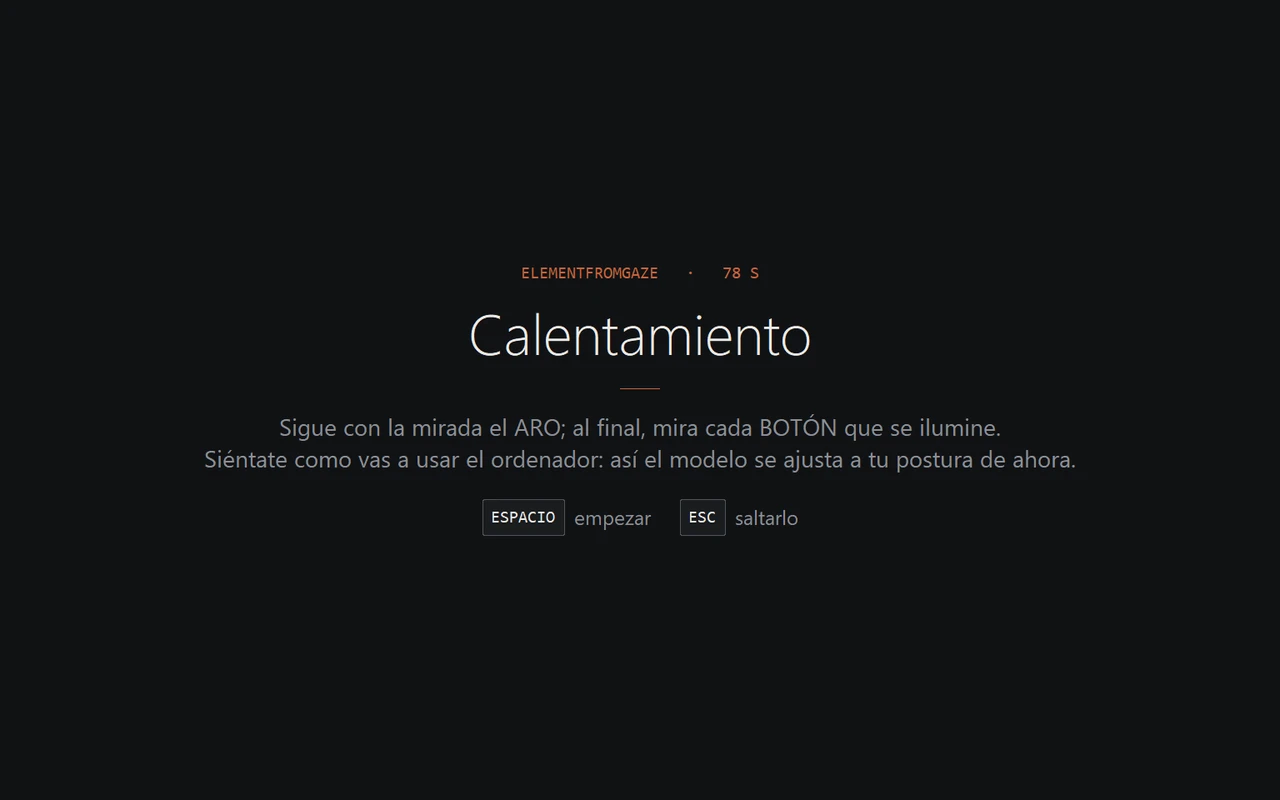
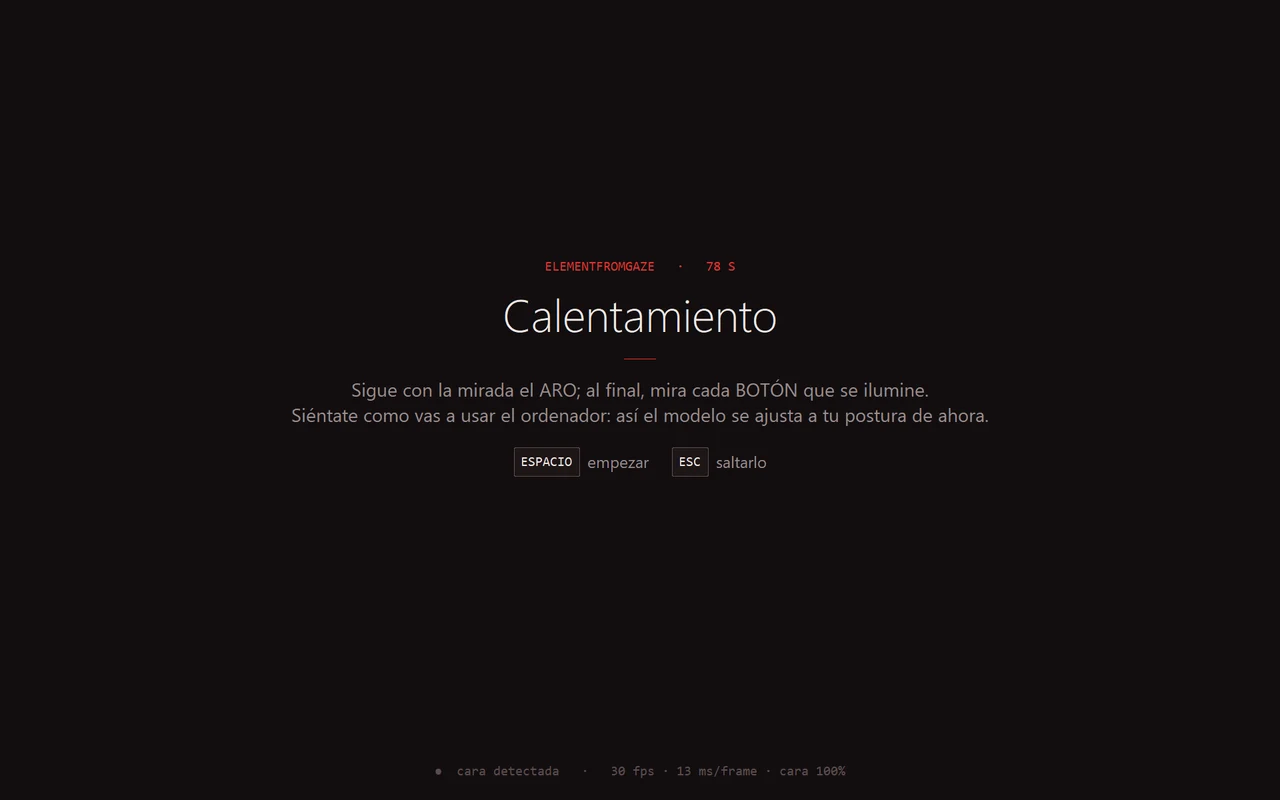
Red look: infrared red replaces copper in every screen, page, figure and the README
One red accent (#E5322D) on a near-black ground with a red undertone, in the
warm-up, tests, overlay, launcher, /demo, /read and efg.js. Problems are now
rose so they never look like the red target. Screenshots and SVG figures
regenerated; README gets the new cover and red badges.

diff --git a/src/elementfromgaze/web/demo.html b/src/elementfromgaze/web/demo.html
@@ -10,7 +10,7 @@
     --bg: #0b0b0c; --card: #111113; --card-hi: #18181b; --panel: #0f0f11;
     --line: #1e1e21; --line-2: #2a2a2e; --line-hi: #4a4843;
     --ink: #e8e4dc; --ink-2: #b4b0a8; --dim: #75726c; --faint: #4d4b47;
-    --acc: #c8643b; --acc-ink: #efc4ae; --acc-soft: rgba(200, 100, 59, .12);
+    --acc: #e5322d; --acc-ink: #f7c0b9; --acc-soft: rgba(229, 50, 45, .12);
     --sans: "Inter", "Segoe UI Variable Text", "Segoe UI", system-ui, sans-serif;
     --serif: "Source Serif 4", Georgia, "Times New Roman", serif;
     --mono: "JetBrains Mono", "Cascadia Mono", Consolas, ui-monospace, monospace;
@@ -32,7 +32,7 @@
   .ctl input { accent-color: var(--acc); width: 14px; height: 14px; margin: 0; }
   kbd { font: 11px/1 var(--mono); color: var(--ink-2); border: 1px solid var(--line-2); border-bottom-width: 2px; border-radius: 4px; padding: 3px 5px; margin-right: 6px; }
   #go { height: 34px; padding: 0 16px; font: 500 13px/1 var(--sans); color: var(--ink); background: transparent;
-    border: 1px solid rgba(200, 100, 59, .55); border-radius: 5px; cursor: pointer; transition: background .15s, border-color .15s; }
+    border: 1px solid rgba(229, 50, 45, .55); border-radius: 5px; cursor: pointer; transition: background .15s, border-color .15s; }
   #go:hover { background: var(--acc-soft); border-color: var(--acc); }
 
   /* one line on what to do, and the live status */
@@ -77,7 +77,7 @@
   svg path { cursor: pointer; fill: var(--card); stroke: var(--bg); stroke-width: 4; transition: fill .18s; }
   svg path:hover { fill: #151517; }
   svg path[data-gazed] { fill: #1d1d20; }
-  svg path.lit { fill: rgba(200, 100, 59, .22); }
+  svg path.lit { fill: rgba(229, 50, 45, .22); }
   svg text { pointer-events: none; text-anchor: middle; }
   svg text.n { fill: var(--ink-2); font: 500 12.5px var(--sans); }
   svg text.v { fill: var(--faint); font: 9.5px var(--mono); }
@@ -98,7 +98,7 @@
 
   /* efg's own pointer, in this page's colours (the lens that morphs onto what you look at) */
   html > div[data-efg][style*="box-shadow"] { border: 1.5px solid rgba(232, 228, 220, .85) !important; background: rgba(232, 228, 220, .05) !important; box-shadow: none !important; }
-  html > div[data-efg][style*="border-bottom"] { border-bottom: 2px solid rgba(200, 100, 59, .85) !important; background: rgba(200, 100, 59, .07) !important; }
+  html > div[data-efg][style*="border-bottom"] { border-bottom: 2px solid rgba(229, 50, 45, .85) !important; background: rgba(229, 50, 45, .07) !important; }
 
   @media (max-width: 1100px) { main { grid-template-columns: minmax(0, 1.4fr) minmax(0, 1fr); row-gap: 32px; } aside { grid-column: 1 / -1; } }
   @media (max-width: 760px) { main { grid-template-columns: 1fr; } .ctl { gap: 14px; } .ctl .hint { display: none; } #st { display: none; } }
@@ -216,7 +216,7 @@
   const targets = () => [...document.querySelectorAll("main button, svg path")];
   document.getElementById("go").onclick = async () => {
     const T = targets(), res = document.getElementById("res"), rows = [];
-    res.textContent = "mira cada objetivo naranja…";
+    res.textContent = "mira cada objetivo rojo…";
     await new Promise((r) => setTimeout(r, 1200));
     for (let i = 0; i < 20; i++) {
       let t; do { t = T[Math.floor(Math.random() * T.length)]; } while (rows.length && rows[rows.length - 1].t === t);

diff --git a/src/elementfromgaze/web/read.html b/src/elementfromgaze/web/read.html
@@ -9,8 +9,8 @@
   :root {
     --bg: #0b0b0c; --panel: #0f0f11; --line: #1e1e21; --line-2: #2a2a2e; --line-hi: #4a4843;
     --ink: #e8e4dc; --ink-2: #b4b0a8; --dim: #75726c; --faint: #4d4b47;
-    --acc: #c8643b; --acc-soft: rgba(200, 100, 59, .1);
-    --ok: #9ab894; --bad: #d9826d;
+    --acc: #e5322d; --acc-soft: rgba(229, 50, 45, .1);
+    --ok: #9ab894; --bad: #f0508c;
     --sans: "Inter", "Segoe UI Variable Text", "Segoe UI", system-ui, sans-serif;
     --mono: "JetBrains Mono", "Cascadia Mono", Consolas, ui-monospace, monospace;
   }
@@ -41,7 +41,7 @@
   button { font: 500 13.5px/1 var(--sans); color: var(--ink); background: transparent; border: 1px solid var(--line-2); border-radius: 5px;
     padding: 0 18px; height: 34px; cursor: pointer; transition: background .15s, border-color .15s, opacity .15s; }
   button:hover:not(:disabled) { border-color: var(--line-hi); background: rgba(232, 228, 220, .04); }
-  button.go, #done:not(:disabled) { border-color: rgba(200, 100, 59, .6); }
+  button.go, #done:not(:disabled) { border-color: rgba(229, 50, 45, .6); }
   button.go:hover:not(:disabled), #done:hover:not(:disabled) { border-color: var(--acc); background: var(--acc-soft); }
   button:disabled { opacity: .4; cursor: default; }
   label.st { display: inline-flex; align-items: center; gap: 8px; cursor: pointer; font: 12.5px/1.4 var(--sans); color: var(--dim); white-space: normal; }
@@ -59,7 +59,7 @@
   .ok { color: var(--ok); } .bad { color: var(--bad); }
 
   /* efg's own pointer, in this page's colours: the line being read gets a thin oxide underline */
-  html > div[data-efg][style*="border-bottom"] { border-bottom: 2px solid rgba(200, 100, 59, .85) !important; background: rgba(200, 100, 59, .07) !important; }
+  html > div[data-efg][style*="border-bottom"] { border-bottom: 2px solid rgba(229, 50, 45, .85) !important; background: rgba(229, 50, 45, .07) !important; }
   html > div[data-efg][style*="box-shadow"] { border: 1.5px solid rgba(232, 228, 220, .8) !important; background: rgba(232, 228, 220, .05) !important; box-shadow: none !important; }
 
   @media (max-width: 900px) { main { grid-template-columns: 1fr; } aside { position: static; } }

diff --git a/src/elementfromgaze/web/efg.js b/src/elementfromgaze/web/efg.js
@@ -1004,9 +1004,9 @@
   function ensureEls() {
     if (lens) return;
     const mk = (css) => { const d = document.createElement("div"); d.setAttribute("data-efg", ""); d.style.cssText = "position:fixed;pointer-events:none;z-index:2147483647;display:none;" + css; document.documentElement.appendChild(d); return d; };
-    lineBar = mk("box-sizing:border-box;border-bottom:2px solid rgba(200,100,59,.8);background:rgba(200,100,59,.06);border-radius:3px;");
+    lineBar = mk("box-sizing:border-box;border-bottom:2px solid rgba(229,50,45,.8);background:rgba(229,50,45,.06);border-radius:3px;");
     lens = mk("box-sizing:border-box;border:2px solid rgba(236,234,230,.85);background:rgba(236,234,230,.06);box-shadow:0 0 14px rgba(0,0,0,.35);");
-    dot = mk("width:8px;height:8px;margin:-4px 0 0 -4px;border-radius:50%;background:#c8643b;opacity:.85;");
+    dot = mk("width:8px;height:8px;margin:-4px 0 0 -4px;border-radius:50%;background:#e5322d;opacity:.85;");
     tag = mk("left:8px;bottom:8px;font:12px/1.3 Consolas,monospace;color:#fff;background:#000a;padding:4px 8px;border-radius:4px;");
   }
   const sLens = {}, sDot = {}, sLine = {};

diff --git a/src/elementfromgaze/look.py b/src/elementfromgaze/look.py
@@ -1,6 +1,6 @@
 """One look for every screen the tracker draws: calibration, warm-up, tests, the overlay, toasts.
 
-Near-black ground, quiet greys, one copper accent (the thing to look at). Head-movement phases
+Near-black ground with a red undertone, quiet greys, one red accent (the infrared look) (the thing to look at). Head-movement phases
 use a steel blue so "move your head" never looks like "look here". Fonts ship with Windows.
 """
 
@@ -9,19 +9,19 @@ from __future__ import annotations
 import re
 import tkinter as tk
 
-GROUND = "#111214"      # intro and message screens
-PANEL = "#1A1C1F"
-INK = "#ECEAE6"
-DIM = "#8C9097"
-FAINT = "#50545B"
-RULE = "#2A2D31"
-ACCENT = "#C8643B"      # copper: where to look, progress, the click ring
-ACCENT_HI = "#E58A5C"
+GROUND = "#120E0F"      # intro and message screens
+PANEL = "#1E1617"
+INK = "#F0E8E6"
+DIM = "#9A8D8E"
+FAINT = "#5C4C4E"
+RULE = "#302426"
+ACCENT = "#E5322D"      # red: where to look, progress, the click ring
+ACCENT_HI = "#FF6150"
 STEEL = "#6FA8C9"       # head-movement phases
 GOOD = "#5DBB73"
 WARN = "#D9A441"
-BAD = "#E5534B"
-GAZE = "#E8E4DC"        # the estimated-gaze dot: neutral, so it never competes with the target
+BAD = "#F0508C"       # rose, so a problem never looks like the red target
+GAZE = "#F2E6E2"        # the estimated-gaze dot: neutral, so it never competes with the target
 
 SANS = "Segoe UI"
 SANS_LIGHT = "Segoe UI Light"
@@ -107,7 +107,7 @@ def status_text(face: bool, perf: str, extra: str = "") -> str:
 
 
 def target(c: tk.Canvas, x, y, *, settle: float | None = None, light_bg=False, head=False, tags="target") -> None:
-    """The point to look at: a copper disc with a pinhole (a precise place for the eye to land),
+    """The point to look at: a red disc with a pinhole (a precise place for the eye to land),
     and while settling a ring that closes onto it. Head phases: a steel double ring."""
     if head:
         c.create_oval(x - 26, y - 26, x + 26, y + 26, outline=STEEL, width=2, tags=tags)
@@ -137,12 +137,12 @@ def message(c: tk.Canvas, W: int, H: int, text: str, kicker: str = "", tags="tar
 def progress(c: tk.Canvas, W: int, frac: float, light_bg=False, tags="progress") -> None:
     """A hairline across the top edge: how much of the stage is done (peripheral, never a target)."""
     c.delete(tags)
-    c.create_line(0, 1, W, 1, fill="#C9C6C0" if light_bg else RULE, width=2, tags=tags)
+    c.create_line(0, 1, W, 1, fill="#D2C6C4" if light_bg else RULE, width=2, tags=tags)
     c.create_line(0, 1, W * max(0.0, min(1.0, frac)), 1, fill=ACCENT, width=2, tags=tags)
 
 
 def warning(c: tk.Canvas, W: int, H: int, text: str, tags="quality") -> None:
-    """Can't see the eyes: a thin red frame and one line, so it is noticed at once."""
+    """Can't see the eyes: a thin rose frame and one line, so it is noticed at once."""
     c.create_rectangle(3, 3, W - 3, H - 3, outline=BAD, width=4, tags=tags)
     t = c.create_text(W / 2, 40, text=text, fill="#FFFFFF", font=(SANS_SEMI, 12), tags=tags)
     x0, y0, x1, y1 = c.bbox(t) or (W / 2 - 80, 30, W / 2 + 80, 50)
@@ -172,4 +172,4 @@ def button(c: tk.Canvas, x, y, w, h, label: str, lit=True, tags="target") -> Non
     """A UI-like button to look at (the warm-up's final check, the button test)."""
     round_rect(c, x - w / 2, y - h / 2, x + w / 2, y + h / 2, r=min(10, h / 4),
                fill=ACCENT if lit else PANEL, outline=ACCENT_HI if lit else RULE, width=1, tags=tags)
-    c.create_text(x, y, text=label, fill="#1A1210" if lit else DIM, font=(SANS_SEMI, -max(11, int(h * 0.36))), tags=tags)   # negative = pixels, immune to DPI scaling
+    c.create_text(x, y, text=label, fill="#1A0D0C" if lit else DIM, font=(SANS_SEMI, -max(11, int(h * 0.36))), tags=tags)   # negative = pixels, immune to DPI scaling

diff --git a/docs/make_figures.py b/docs/make_figures.py
@@ -6,8 +6,8 @@ from __future__ import annotations
 from pathlib import Path
 
 OUT = Path(__file__).parent / "assets"
-BG, PANEL, RULE, INK, DIM, FAINT = "#111214", "#1A1C1F", "#2A2D31", "#ECEAE6", "#8C9097", "#50545B"
-ACCENT, STEEL, GREEN, VIOLET, GOLD = "#C8643B", "#6FA8C9", "#5DBB73", "#9B8AE0", "#D9A441"
+BG, PANEL, RULE, INK, DIM, FAINT = "#120E0F", "#1E1617", "#302426", "#F0E8E6", "#9A8D8E", "#5C4C4E"
+ACCENT, STEEL, GREEN, VIOLET, GOLD = "#E5322D", "#6FA8C9", "#5DBB73", "#9B8AE0", "#D9A441"
 FONT = "ui-monospace, SFMono-Regular, Consolas, Menlo, monospace"
 SANS = "-apple-system, 'Segoe UI', Inter, Helvetica, Arial, sans-serif"
 
@@ -58,7 +58,7 @@ def pipeline():
     b.append(arrow(843, 156, 843, 214))
     b.append(arrow(754, 267, 714, 267))
     b.append(arrow(518, 267, 478, 267))
-    b.append(box(28, 214, 200, 106, "you", ["pointer on the button", "long blink: click", "efg.js events in pages"], color=ACCENT, fill="#1E1714"))
+    b.append(box(28, 214, 200, 106, "you", ["pointer on the button", "long blink: click", "efg.js events in pages"], color=ACCENT, fill="#2A1314"))
     b.append(arrow(268, 267, 228, 267))
     # row 3: learning
     b.append(box(268, 378, 446, 110, "learning on the ride", [
@@ -74,7 +74,7 @@ def pipeline():
     b.append(f'<line x1="128" y1="433" x2="268" y2="433" stroke="{FAINT}" stroke-width="1.4"/>')
     b.append(f'<text x="138" y="392" font-size="10.5" fill="{FAINT}">clicks, keys</text>')
     # key strip
-    b.append(f'<rect x="0" y="512" width="{W}" height="48" fill="#15171A"/><line x1="0" y1="512" x2="{W}" y2="512" stroke="{RULE}"/>')
+    b.append(f'<rect x="0" y="512" width="{W}" height="48" fill="#181213"/><line x1="0" y1="512" x2="{W}" y2="512" stroke="{RULE}"/>')
     keys = [(FAINT, "hardware and outside libraries"), (GREEN, "data, labels"), (VIOLET, "trained weights"),
             (GOLD, "what is measured now"), (ACCENT, "what you see")]
     x = 28
@@ -120,7 +120,7 @@ def size_chart():
     b.append(line(CLICK_CURVE, STEEL, "5 4"))
     b.append(line(SIZE_CURVE, ACCENT))
     b.append(f'<text x="{X(3.05)}" y="{Y(0.946) + 22}" font-size="11.5" fill="{GOLD}">95% from 3° (184 px)</text>')
-    b.append(f'<rect x="0" y="422" width="{W}" height="48" fill="#15171A"/><line x1="0" y1="422" x2="{W}" y2="422" stroke="{RULE}"/>')
+    b.append(f'<rect x="0" y="422" width="{W}" height="48" fill="#181213"/><line x1="0" y1="422" x2="{W}" y2="422" stroke="{RULE}"/>')
     b.append(f'<line x1="28" y1="446" x2="48" y2="446" stroke="{ACCENT}" stroke-width="2.2"/>'
              f'<text x="56" y="450" font-size="10.5" fill="{DIM}">1 s look, after the warm-up</text>')
     b.append(f'<line x1="300" y1="446" x2="320" y2="446" stroke="{STEEL}" stroke-width="2.2" stroke-dasharray="5 4"/>'
@@ -129,7 +129,7 @@ def size_chart():
     (OUT / "button-size.svg").write_text(svg(W, H, "\n".join(b)), encoding="utf-8")
 
 
-BAD_BG = "#3A1F1A"
+BAD_BG = "#3A1A1C"
 
 if __name__ == "__main__":
     OUT.mkdir(parents=True, exist_ok=True)

diff --git a/src/elementfromgaze/track.py b/src/elementfromgaze/track.py
@@ -221,7 +221,7 @@ class WarmupStage(Stage):
             segs.append(Segment("fix", 1.9, (lambda t, x=fx * W, y=fy * H: (x, y)), 0.7, bg=BGS[k % 2]))
         # head turns while fixating: the dot drifted ~2-3 px per degree of head yaw (measured on the
         # head-motion sessions); 6 s of this in the CURRENT posture teaches the network to hold still
-        segs.append(message("Mira el aro todo el rato y mueve la cabeza: lleva tu marca naranja al punto azul.", 2.6))
+        segs.append(message("Mira el aro todo el rato y mueve la cabeza: lleva tu marca roja al punto azul.", 2.6))
         segs.append(Segment("vor", HEAD_S, (lambda t, x=W / 2, y=H * 0.45: (x, y)), 0.6, bg=BGS[0]))
         pts = CHECK_POINTS[:]
         random.shuffle(pts)
@@ -284,7 +284,7 @@ class WarmupStage(Stage):
                 ay, ap = self.head["now"][1] * sg[0], self.head["now"][0] * sg[1]
                 ax_, ay_ = x + np.clip(ay / HEAD_AMP, -1.3, 1.3) * R, y - np.clip(ap / HEAD_AMP, -1.3, 1.3) * R
                 c.create_oval(ax_ - 15, ay_ - 15, ax_ + 15, ay_ + 15, outline=look.ACCENT, width=3, tags="target")
-            c.create_text(x, y + R + 34, text="mira el aro blanco  ·  mueve la cabeza para llevar el círculo naranja al punto azul",
+            c.create_text(x, y + R + 34, text="mira el aro blanco  ·  mueve la cabeza para llevar el círculo rojo al punto azul",
                           fill=look.DIM, font=(look.SANS, 13), tags="target")
         look.ring(c, x, y, light_bg=_ink(seg.bg) != "#ffffff")
 

diff --git a/src/elementfromgaze/overlay.py b/src/elementfromgaze/overlay.py
@@ -279,7 +279,7 @@ def dot(radius: int = 12, learn: bool = True, warm: bool = True, rewarm: bool = 
         if recheck["on"] or recheck["busy"]:
             return
         recheck.update(on=True, t0=time.monotonic(), rows=[])
-        print("   recalibración" + (" automática" if auto else "") + f": sigue el aro naranja (≈{recal_T + 4:.0f} s)")
+        print("   recalibración" + (" automática" if auto else "") + f": sigue el aro rojo (≈{recal_T + 4:.0f} s)")
 
     def finish_recheck() -> None:
         """Re-fit the network to this posture (background), then the global correction from the 3
@@ -577,7 +577,7 @@ def dot(radius: int = 12, learn: bool = True, warm: bool = True, rewarm: bool = 
                 print("   ⚠ postura nueva (" + ", ".join(why) + "): recalibro en 3 s")
                 gen["n"] += 1
                 toaster.show("Postura nueva: " + ", ".join(why),
-                             "Recalibro en 3 s: sigue el aro naranja (≈45 s). Después recuerdo esta postura.", "warn", 3000)
+                             "Recalibro en 3 s: sigue el aro rojo (≈45 s). Después recuerdo esta postura.", "warn", 3000)
                 root.after(3000, lambda: start_recheck(auto=True))
         p = latest.get("p")
         looking_away = now - latest.get("off_t", -1e9) < 0.25

diff --git a/src/elementfromgaze/launcher.py b/src/elementfromgaze/launcher.py
@@ -37,8 +37,8 @@ LINE = "#1B1B1F"
 TEXT = "#ECE9E4"
 MUTED = "#8B8A91"
 FAINT = "#56555B"
-ACCENT = "#C8643B"
-ACCENT_DIM = "#5E3323"
+ACCENT = "#E5322D"
+ACCENT_DIM = "#5E1D1A"
 LOG_BG = "#111114"
 LOG_FG = "#706F76"
 SANS, SANS_B, MONO = "Segoe UI", "Segoe UI Semibold", "Cascadia Mono"
@@ -67,7 +67,7 @@ def _mix(a: str, b: str, t: float) -> str:
 
 
 def eye_image(size: int, active: bool = False, plate: bool = False) -> Image.Image:
-    """The mark: an almond eye in copper. `active` fills it; `plate` puts it on a dark rounded tile."""
+    """The mark: an almond eye in red. `active` fills it; `plate` puts it on a dark rounded tile."""
     ss = 4
     S = size * ss
     im = Image.new("RGBA", (S, S), (0, 0, 0, 0))
@@ -105,7 +105,7 @@ def toggle_image(on: bool, s: float) -> Image.Image:
     d = ImageDraw.Draw(im)
     lw = max(ss, round(1.1 * s * ss))
     d.rounded_rectangle([lw // 2, lw // 2, W - 1 - lw // 2, H - 1 - lw // 2], radius=H // 2,
-                        fill=_rgb("#26170F" if on else "#18181C") + (255,),
+                        fill=_rgb("#2A1211" if on else "#18181C") + (255,),
                         outline=_rgb(ACCENT if on else "#34343A") + (255,), width=lw)
     k = H - 2 * round(3.2 * s * ss)
     x0 = W - (H - k) // 2 - k if on else (H - k) // 2

diff --git a/src/elementfromgaze/app.py b/src/elementfromgaze/app.py
@@ -171,7 +171,7 @@ class Stage:
     """A full-screen Tk window that plays Segments and records every sample against them."""
 
     title = "Calibración"
-    intro_text = ("Mira siempre el punto naranja; leerás instrucciones entre fases.\n"
+    intro_text = ("Mira siempre el punto rojo; leerás instrucciones entre fases.\n"
                   "ESPACIO para empezar · ESC para salir sin guardar")
 
     def __init__(self, segments: list[Segment]):

diff --git a/README.md b/README.md
@@ -2,6 +2,10 @@
   <a href="https://infraphysics.net"><img src="docs/assets/infraphysics.svg" width="72" alt="InfraPhysics"></a>
 </p>
 
+<p align="center">
+  <img src="docs/assets/cover.webp" width="900" alt="A head drawn in red infrared particles looks along a thin ray, through calibration rings, at one glowing button in a grid on a screen">
+</p>
+
 <h1 align="center">elementfromgaze</h1>
 
 <p align="center">
@@ -10,11 +14,11 @@
 </p>
 
 <p align="center">
-  <a href="LICENSE"><img src="https://img.shields.io/badge/code-MIT-blue" alt="Code: MIT"></a>
-  <a href="#the-weights"><img src="https://img.shields.io/badge/weights-CC%20BY%20%7C%20CC%20BY--NC--SA-lightgrey" alt="Weights: CC BY 4.0 and CC BY-NC-SA 4.0"></a>
-  <img src="https://img.shields.io/badge/platform-Windows-0078D6" alt="Windows">
-  <img src="https://img.shields.io/badge/python-3.13-3776AB" alt="Python 3.13">
-  <img src="https://img.shields.io/badge/runs-on%20CPU%2C%20offline-brightgreen" alt="Runs on CPU, offline">
+  <a href="LICENSE"><img src="https://img.shields.io/badge/code-MIT-E5322D" alt="Code: MIT"></a>
+  <a href="#the-weights"><img src="https://img.shields.io/badge/weights-CC%20BY%20%7C%20CC%20BY--NC--SA-B3202A" alt="Weights: CC BY 4.0 and CC BY-NC-SA 4.0"></a>
+  <img src="https://img.shields.io/badge/platform-Windows-8A1C1F" alt="Windows">
+  <img src="https://img.shields.io/badge/python-3.13-8A1C1F" alt="Python 3.13">
+  <img src="https://img.shields.io/badge/runs-on%20CPU%2C%20offline-B3202A" alt="Runs on CPU, offline">
 </p>
 
 <p align="center">
@@ -56,10 +60,10 @@ The first time, it needs no calibration session: the generic base plus the 80-se
 <table>
   <tr>
     <td width="50%"><img src="docs/screens/warmup-intro.webp" alt="Warm-up intro screen"><br><sub><b>Warm-up, 78 s.</b> Every session starts here: sit as you will work, follow the ring.</sub></td>
-    <td width="50%"><img src="docs/screens/fixation.webp" alt="A fixation target"><br><sub><b>Fixation target.</b> A copper disc with a pinhole, and a ring that closes onto it while the eye settles. The hairline on top is the progress.</sub></td>
+    <td width="50%"><img src="docs/screens/fixation.webp" alt="A fixation target"><br><sub><b>Fixation target.</b> A red disc with a pinhole, and a ring that closes onto it while the eye settles. The hairline on top is the progress.</sub></td>
   </tr>
   <tr>
-    <td><img src="docs/screens/head-turn.webp" alt="Head-turn guide"><br><sub><b>Head turn.</b> Keep looking at the ring and steer the copper circle (your nose) onto the blue dot. Teaches the network that turning the head is not looking elsewhere.</sub></td>
+    <td><img src="docs/screens/head-turn.webp" alt="Head-turn guide"><br><sub><b>Head turn.</b> Keep looking at the ring and steer the red circle (your nose) onto the blue dot. Teaches the network that turning the head is not looking elsewhere.</sub></td>
     <td><img src="docs/screens/button-check.webp" alt="Button check"><br><sub><b>Nine buttons.</b> The warm-up ends by measuring what is still off on real fixations, which seeds the correction.</sub></td>
   </tr>
   <tr>
@@ -81,7 +85,7 @@ The first time, it needs no calibration session: the generic base plus the 80-se
 | Use it without typing commands | `app` | A small window and a tray icon with every action below as a button. |
 | Move the pointer with your eyes in any app | `control --dot` | The pointer snaps to the button you look at (Windows UI Automation reads every app's buttons). |
 | Also click with your eyes | `control --dot --click` | Close both eyes a little longer than a blink (0.8 s for me) to click. Record your blinks once with `gesture`. |
-| See where it thinks you look | `dot` | A copper dot over the whole screen. Learns from your clicks and typing. |
+| See where it thinks you look | `dot` | A red dot over the whole screen. Learns from your clicks and typing. |
 | Use gaze in a web page | `dot --serve` | Streams gaze to `http://127.0.0.1:8770`; load `efg.js` in any page. Demos at `/demo` and `/read`. |
 | Know how good it is today | `track`, `targets` | Follow a ring, or pick lit buttons; both log the error. |
 
